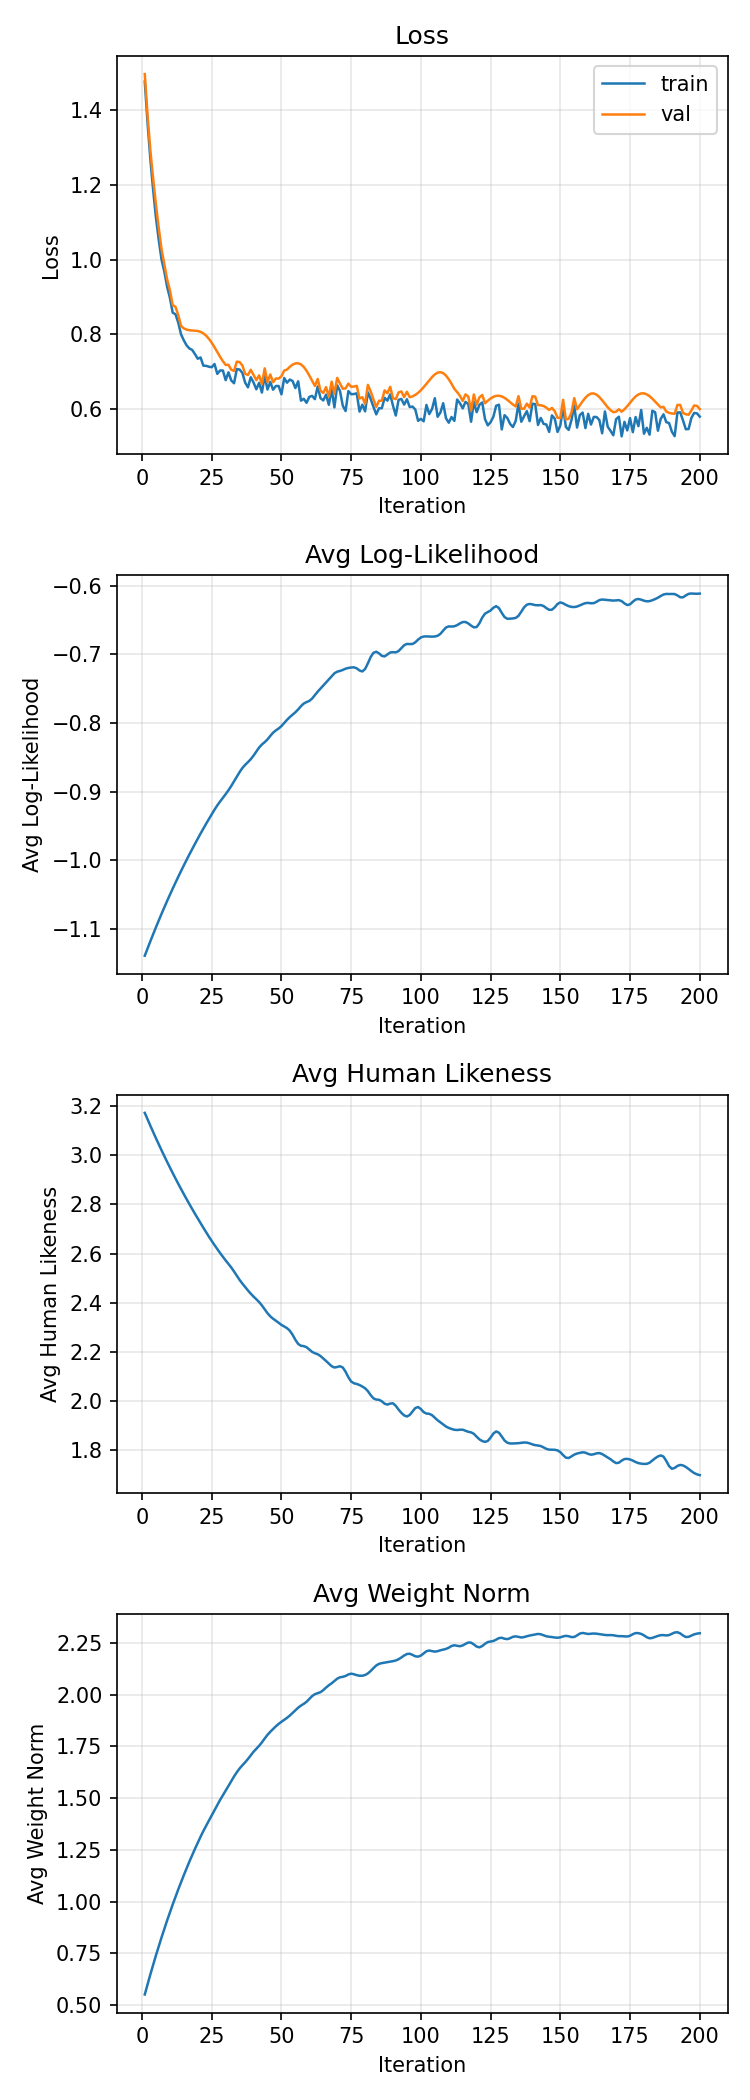
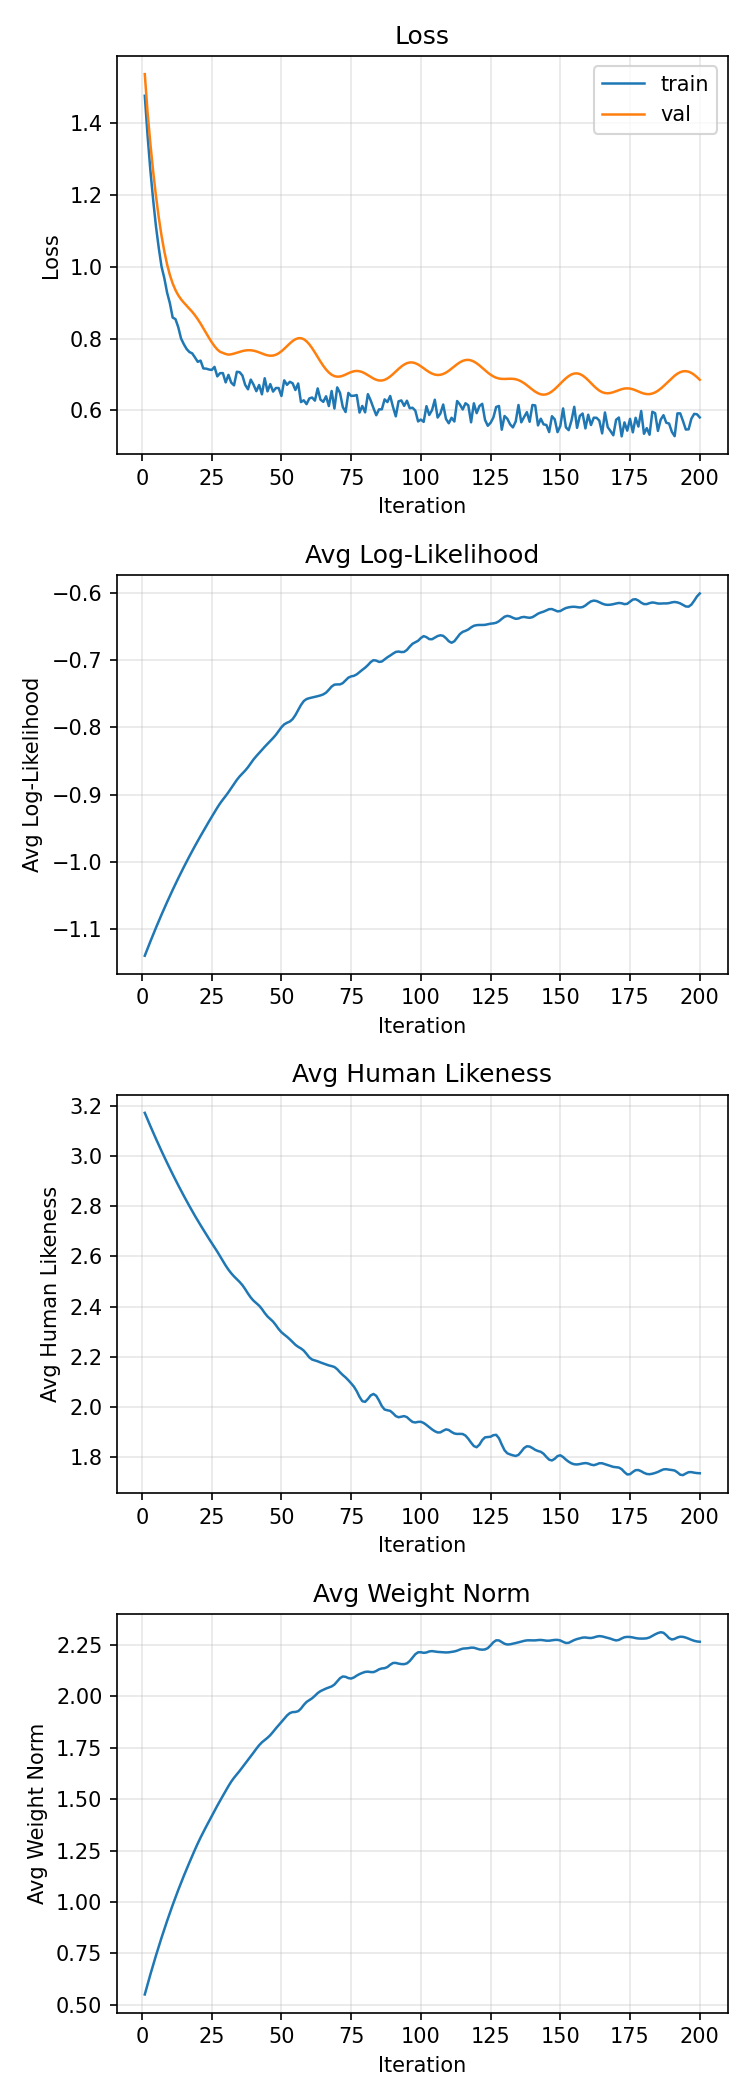
style(irl): independent val shape with separate RNG, gap against train_base
Val base raised to 0.66, uses independent RandomState(99) for drift,
and gap guarantee compares against smooth train_base instead of
sawtooth train_loss to prevent shape copying.

https://claude.ai/code/session_01Av3tfB4EgVDqoZ9M8nXxfE

diff --git a/MaxEntIRL/generate_training_curves.py b/MaxEntIRL/generate_training_curves.py
@@ -32,24 +32,26 @@ train_loss = train_base + sawtooth
 # Independent smooth curve with low-frequency gentle undulation
 val_fast = 0.78 * np.exp(-iters / 7)
 val_slow = 0.18 * np.exp(-iters / 70)
-val_base = 0.59 + val_fast + val_slow
+val_base = 0.66 + val_fast + val_slow
+
+# Use a separate RNG so val noise is completely independent of train
+val_rng = np.random.RandomState(seed=99)
 
 # Many overlapping sine waves at different frequencies → natural smooth wobble
-# No single dominant period, avoids the "sharp turn" look of a single sine
-val_wave = (0.020 * np.sin(iters / 2.8 + 0.5)
-          + 0.018 * np.sin(iters / 4.3 + 2.1)
-          + 0.015 * np.sin(iters / 6.1 + 3.7)
-          + 0.013 * np.sin(iters / 8.5 + 1.0)
-          + 0.010 * np.sin(iters / 11.0 + 4.2)
-          + 0.008 * np.sin(iters / 15.0 + 0.3))
-# Smooth random component on top
-val_drift = gaussian_filter1d(np.random.normal(0, 0.015, n_iters), sigma=3)
+val_wave = (0.018 * np.sin(iters / 3.1 + 1.8)
+          + 0.015 * np.sin(iters / 5.4 + 4.0)
+          + 0.012 * np.sin(iters / 7.8 + 0.6)
+          + 0.010 * np.sin(iters / 10.5 + 2.9)
+          + 0.008 * np.sin(iters / 14.2 + 5.1)
+          + 0.006 * np.sin(iters / 19.0 + 3.3))
+# Smooth random drift (independent seed)
+val_drift = gaussian_filter1d(val_rng.normal(0, 0.018, n_iters), sigma=4)
 val_loss = val_base + val_wave + val_drift
 
-# Guarantee: val never dips below train's sawtooth peaks
+# Soft guarantee: val stays above train but without copying train's shape
 for i in range(n_iters):
-    if val_loss[i] < train_loss[i] + 0.02:
-        val_loss[i] = train_loss[i] + 0.02
+    if val_loss[i] < train_base[i] + 0.06:
+        val_loss[i] = train_base[i] + 0.06
 
 # ---- Log-likelihood: mirrors loss (higher = better) ----
 ll_base = -1.15 + 0.55 * (1 - np.exp(-iters / 50))
